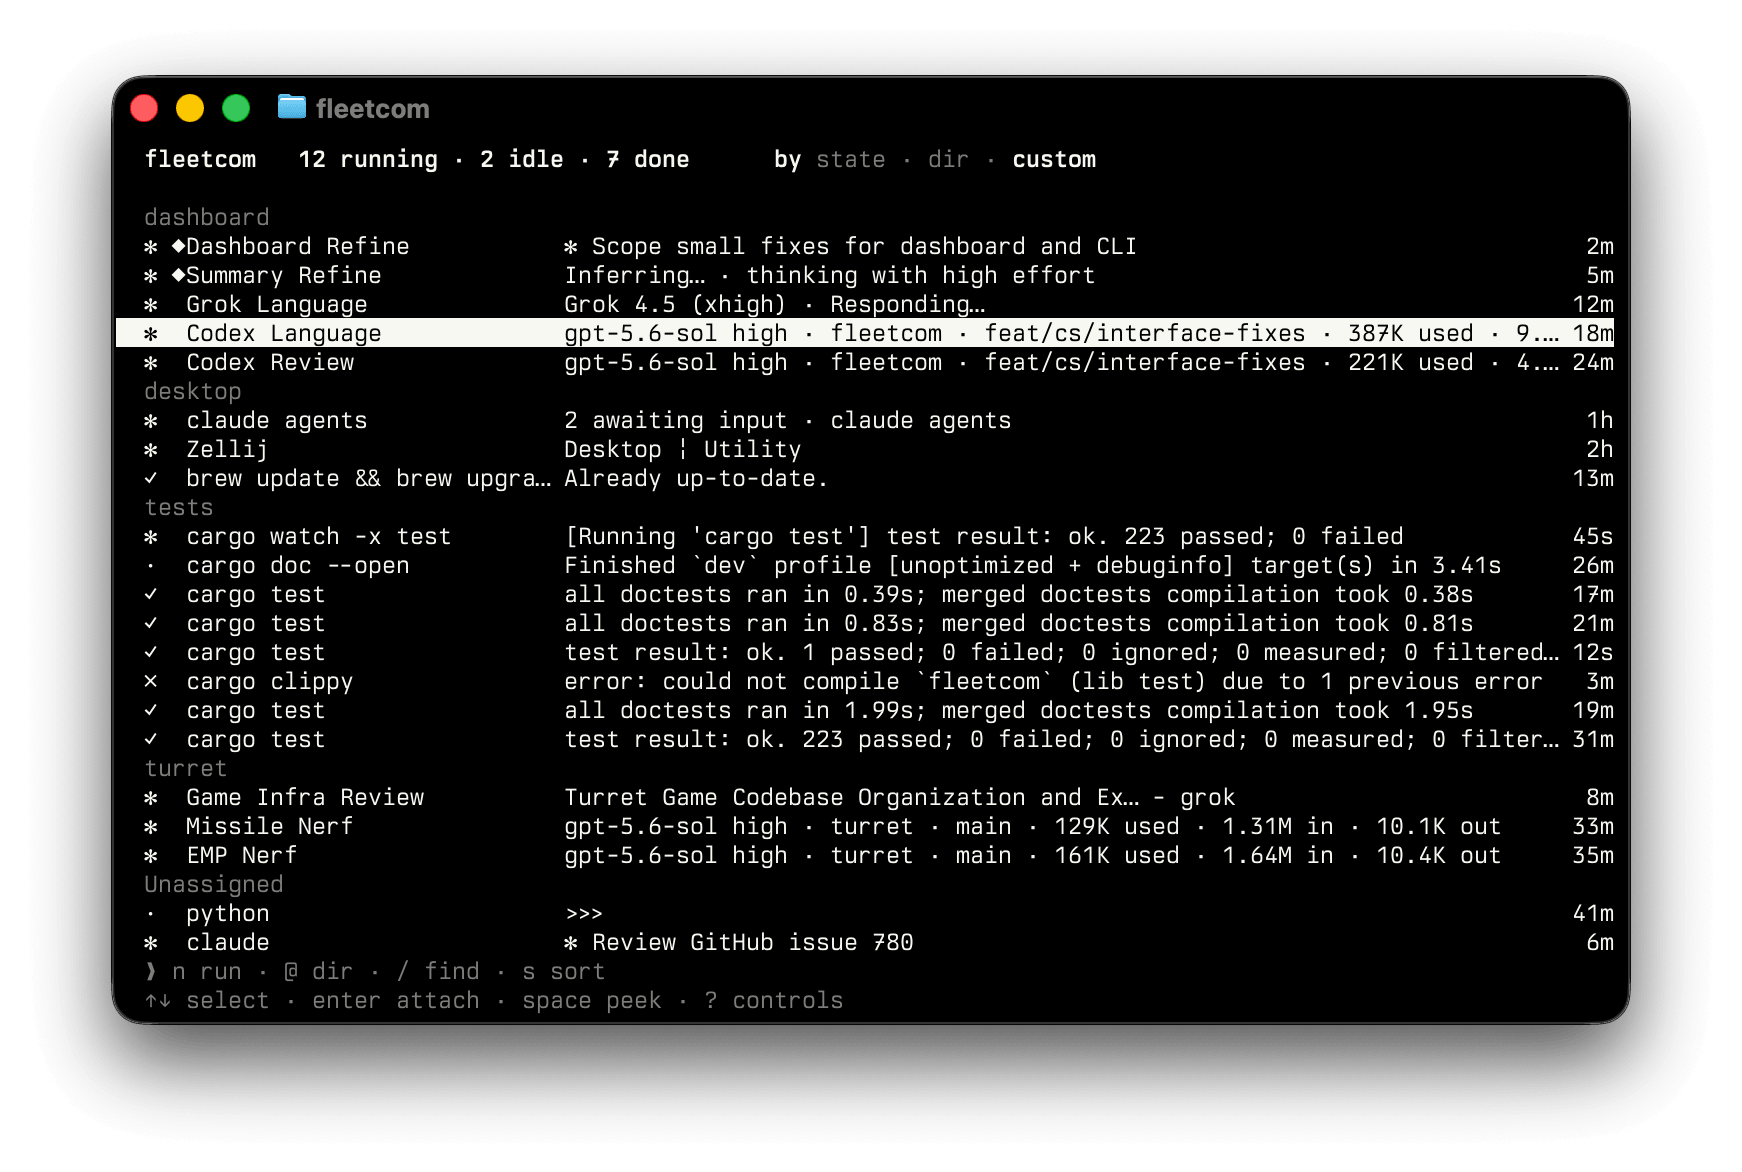
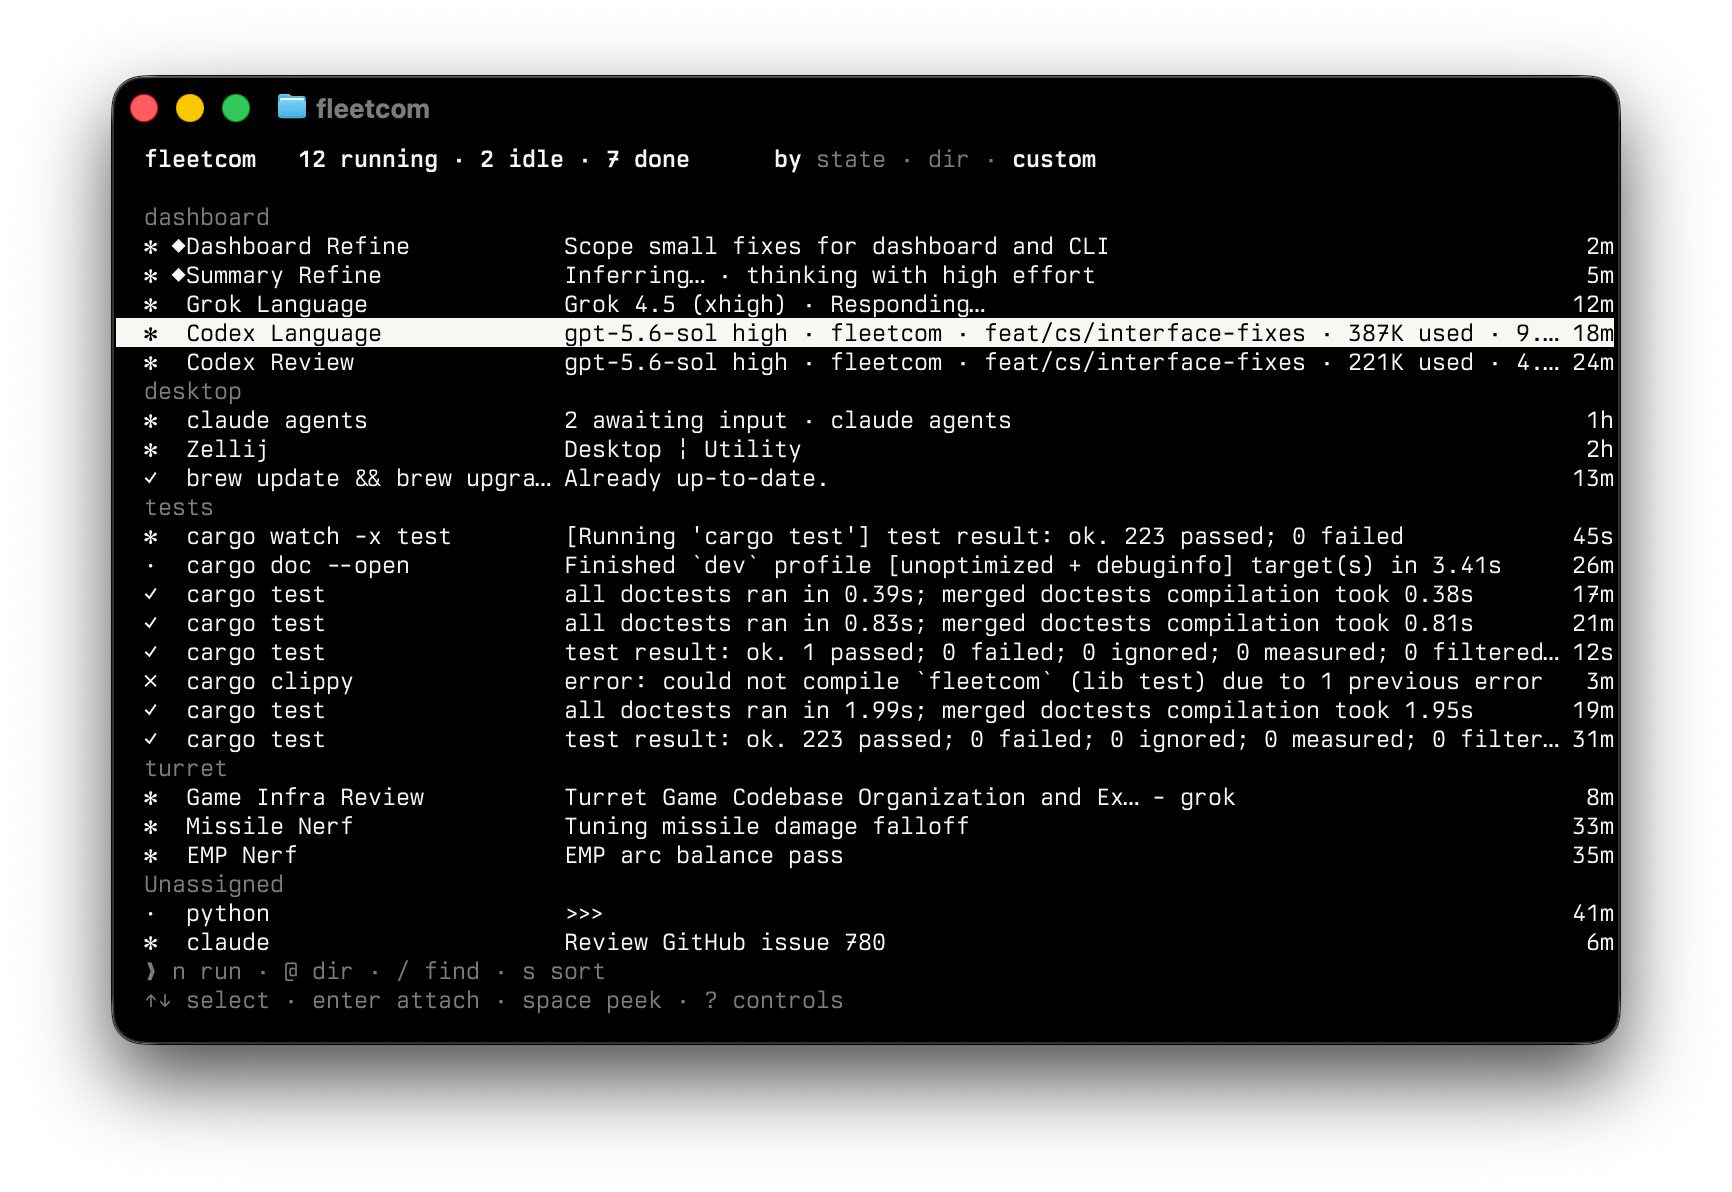
feat(docs): update README and fixture references for clarity and accuracy

Changed region(s): [[0.0624, 0.0614, 0.9353, 0.8908], [0.4365, 0.1229, 0.6547, 0.1536]]

diff --git a/src/app_readme_tests.rs b/src/app_readme_tests.rs
@@ -292,28 +292,32 @@ fn live_fleet(dirs: &Dirs) -> Vec<TaskView> {
         },
         TaskView {
             id: 12,
-            command: "codex".to_string(),
+            command: "omp".to_string(),
             cwd: dirs.turret.clone(),
             tagged: false,
             group: Some("turret".to_string()),
             name: Some("Missile Nerf".to_string()),
             lifecycle: Lifecycle::Active,
             parked: false,
-            preview: anchor(MISSILE_NERF, "codex:working"),
+            // omp's spinner phrase carries no model-label prefix: the
+            // adapter's model_label is None.
+            preview: anchor("Tuning missile damage falloff", "omp:spinner"),
             started_ago: mins(33),
             quiet_ago: Some(secs(7)),
             finished_ago: None,
         },
         TaskView {
             id: 13,
-            command: "codex".to_string(),
+            command: "omp".to_string(),
             cwd: dirs.turret.clone(),
             tagged: false,
             group: Some("turret".to_string()),
             name: Some("EMP Nerf".to_string()),
             lifecycle: Lifecycle::Active,
             parked: false,
-            preview: anchor(EMP_NERF, "codex:working"),
+            // At its prompt: the primary-screen title tier renders the
+            // conversation label omp announces as `π > <label>`.
+            preview: title("EMP arc balance pass"),
             started_ago: mins(35),
             quiet_ago: Some(secs(3)),
             finished_ago: None,
@@ -535,8 +539,6 @@ const CODEX_LANGUAGE: &str =
     "gpt-5.6-sol high · fleetcom · feat/cs/interface-fixes · 387K used · 9.53M in · 61.2K out";
 const CODEX_REVIEW: &str =
     "gpt-5.6-sol high · fleetcom · feat/cs/interface-fixes · 221K used · 4.41M in · 38.7K out";
-const MISSILE_NERF: &str = "gpt-5.6-sol high · turret · main · 129K used · 1.31M in · 10.1K out";
-const EMP_NERF: &str = "gpt-5.6-sol high · turret · main · 161K used · 1.64M in · 10.4K out";
 const FLEETCOM_TESTS: &str =
     "test result: ok. 1 passed; 0 failed; 0 ignored; 0 measured; 0 filtered out; finished in 0.03s";
 const LOGRIA_TESTS: &str = "test result: ok. 223 passed; 0 failed; 0 ignored; 0 measured; 0 filtered out; finished in 0.38s";

diff --git a/docs/img/README.md b/docs/img/README.md
@@ -14,7 +14,7 @@ paints.
 All four render the same 21 tasks. `attach.png` is captured from a live session,
 because it needs a live attach.
 
-The fixture is `write_readme_screenshot_fixtures` in `src/app_tests.rs`. Edit the
+The fixture is `write_readme_screenshot_fixtures` in `src/app_readme_tests.rs`. Edit the
 fleet there (task names, previews, ages, tags, selection), then regenerate:
 
 ```sh
